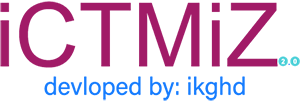
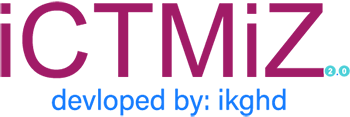
.

diff --git a/depictions/foxert.html b/depictions/foxert.html
@@ -155,9 +155,9 @@ Twitter @iKG_HD<br>
 
 
 <p float="left">
-  <img src="1.png" width="60" />
-  <img src="2.png" width="60" />
-  <img src="3.png" width="60" />
+  <img src="1.png" width="150" />
+  <img src="2.png" width="150" />
+  <img src="3.png" width="150" />
 </p>
 
 
